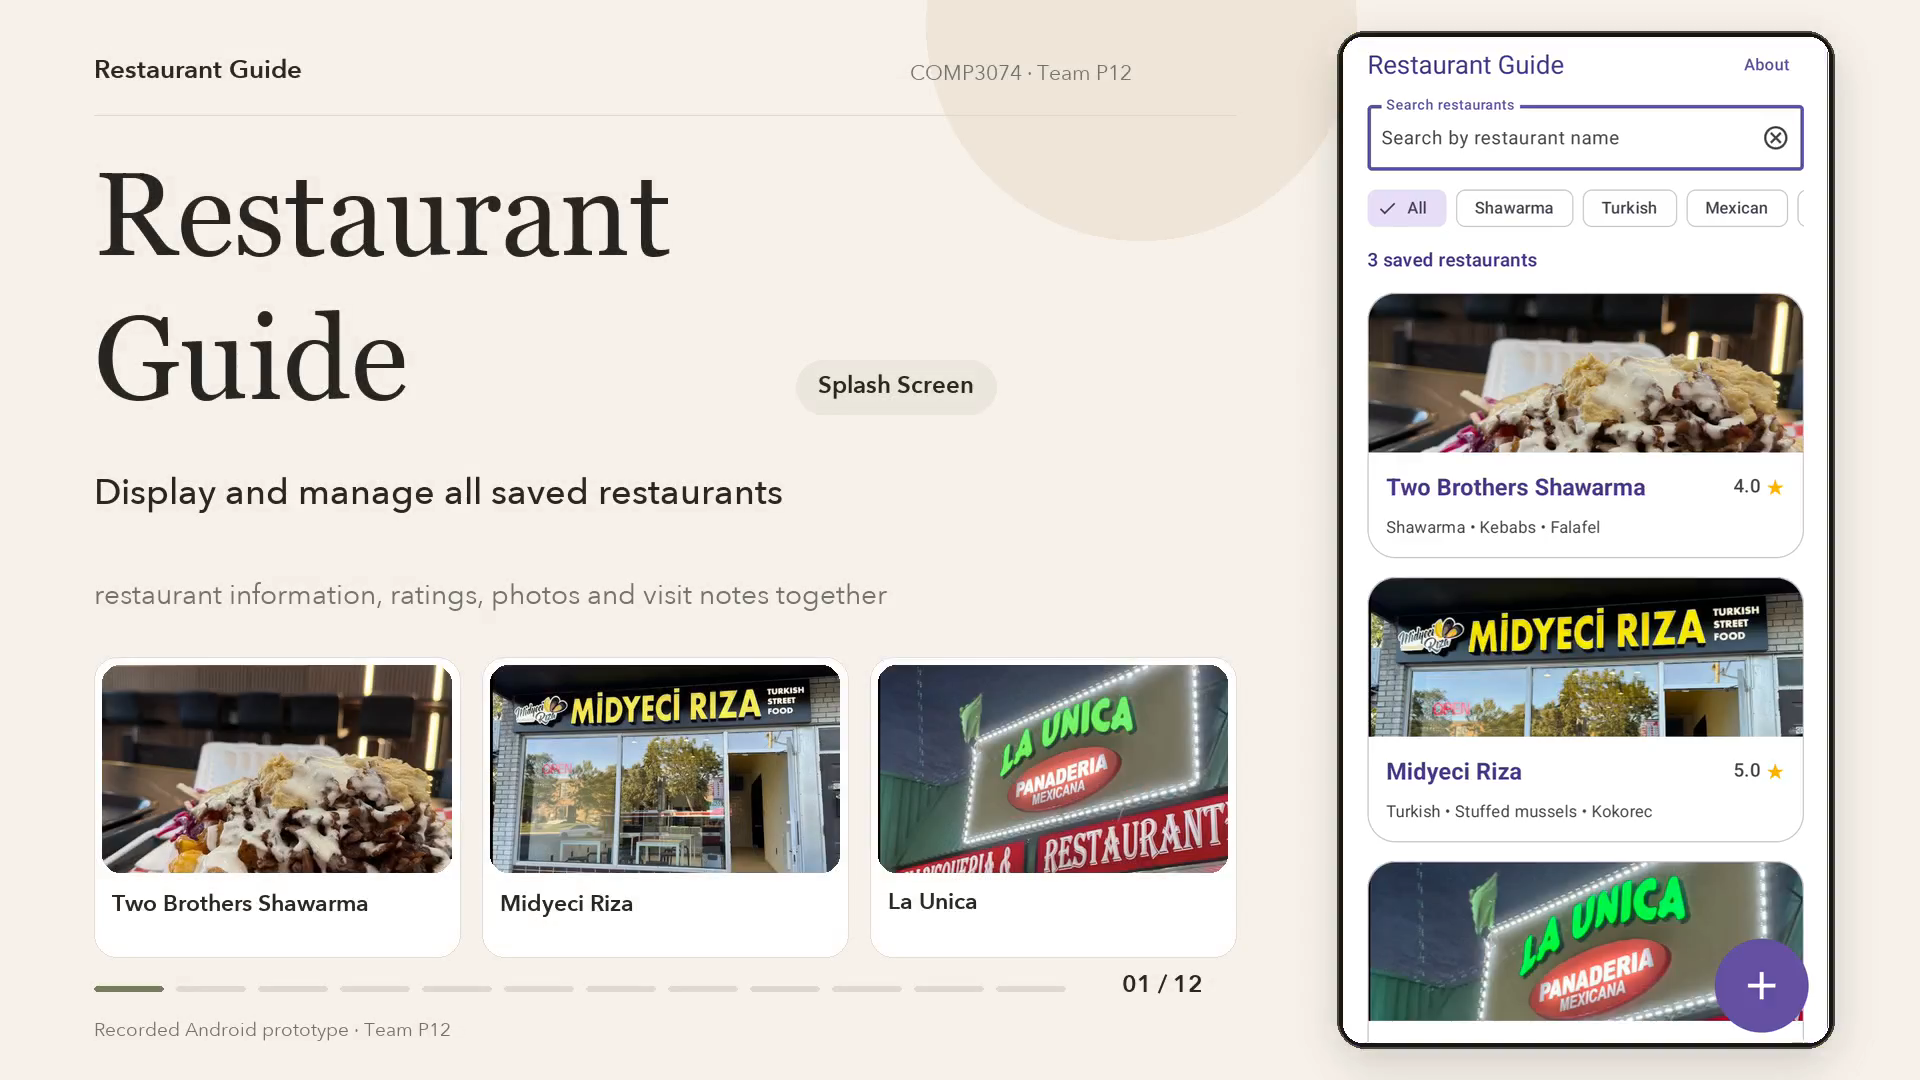
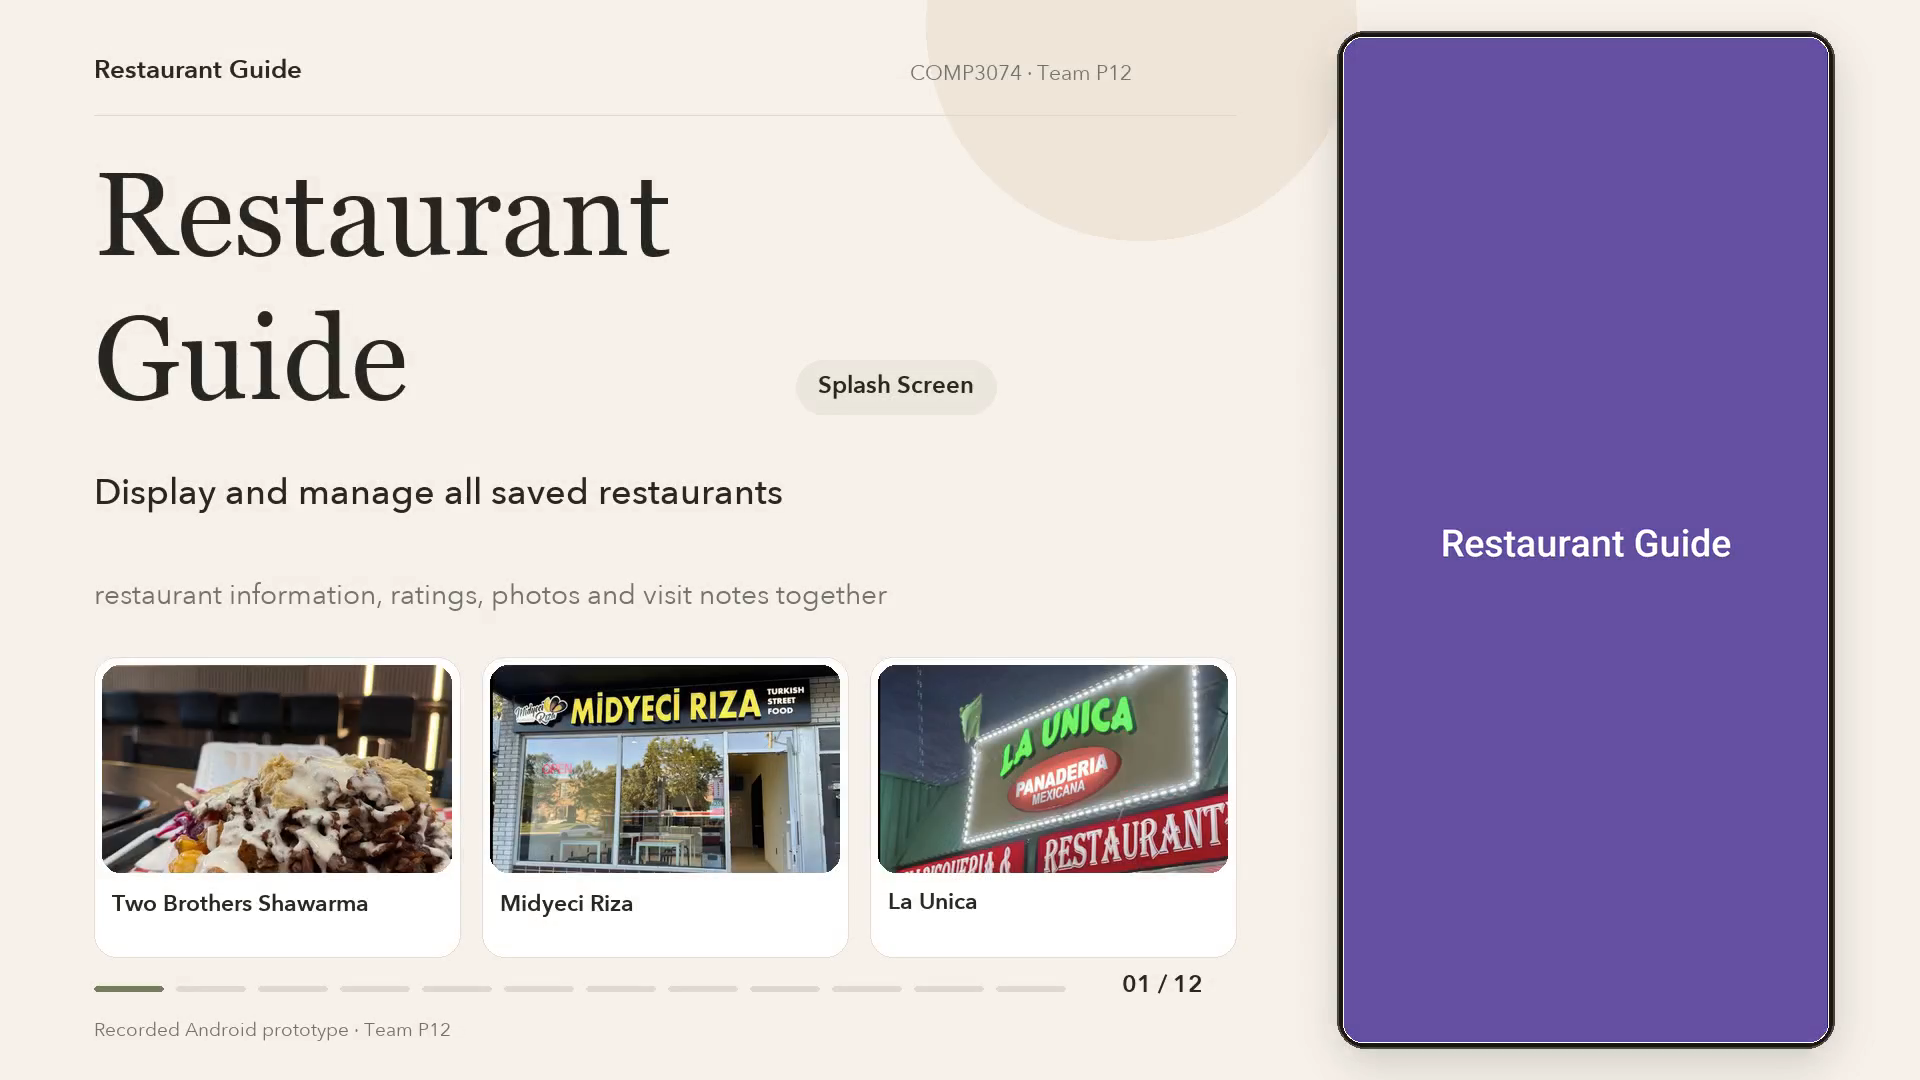
Align demo narration cues and refresh prototype footage
Refresh native Rating/Edit/Delete/About clips, hold the authentic Splash frame and align the separate recording script to final video actions. Retain the silent 4:58 presentation. Full decode, sampled visual review and file-copy checks passed.

Changed region(s): [[0.6875, 0.0306, 0.9688, 0.9778]]

diff --git a/docs/demo/transcript-timed.md b/docs/demo/transcript-timed.md
@@ -1,52 +1,189 @@
 # Restaurant Guide — Timed presentation transcript
 
-Matches the current 4:58 presentation. Times are the exact video chapter ranges; each paragraph is the existing script for that section. The video remains silent.
+Current video: **04:58.200**. retimed to final encode. The video remains silent, without captions or voiceover.
+
+Record one take per section. Directions and pause cues are not spoken; let each observed action finish. Times are suggested recording windows, not measured speech alignment.
+
+Illustrative 130–150 words per minute, not a measurement of the presenter.
+
+**Read only the quoted paragraphs.** The italic cues are directions for pacing; do not read them aloud. Rehearse to your own speaking speed.
 
 ## 00:00.000–00:15.033 | Splash Screen
 
-Restaurant Guide keeps restaurant information, ratings, photos and visit notes together, helping you remember what you ate and whether you would order it again. The purple Splash Screen introduces the application.
+*00:00.000–00:04.600 — Authentic Splash held on screen; start with the Splash sentence.*
+
+> The Splash Screen introduces Restaurant Guide.
+
+*00:04.800–00:14.700 — Allow the automatic transition, then explain the application purpose.*
+
+> Restaurant information, ratings, photos and visit notes stay together, so you remember what you ate and whether you’d order it again.
 
 ## 00:15.033–00:27.500 | Restaurant List
 
-The Restaurant List uses scrollable cards with a photo, name and rating. Rounded corners, soft borders and purple headings make the saved restaurants easy to scan.
+*00:15.333–00:27.133 — Read while the three restaurant cards scroll into view.*
+
+> Restaurant List shows scrollable cards with a photo, name and rating. Rounded corners and soft borders keep the saved restaurants easy to scan.
 
 ## 00:27.500–00:57.067 | Restaurant List — Search restaurants
 
-Search restaurants updates results as you type. Select multiple tags, or All to reset them. No restaurants found provides a way to clear the search and filters.
+*00:27.700–00:32.600 — Watch the matching names change as search text is entered.*
+
+> Search restaurants updates the matching names as you type.
+
+*00:33.300–00:37.600 — Wait for Shawarma and Turkish to appear selected.*
+
+> Selected tags match any selected category.
+
+*00:38.900–00:45.800 — Let the selected Details screen open and Back return to the filtered List.*
+
+> Open a card, then Back preserves the search and selected filters.
+
+*00:46.100–00:50.600 — Wait for All; this action clears tags, not the name query.*
+
+> All resets tags while keeping the name query.
+
+*00:51.500–00:56.800 — Read over No restaurants found and its recovery action.*
+
+> No restaurants found offers Clear search and filters to recover.
 
 ## 00:57.067–01:11.533 | Restaurant Details
 
-Restaurant Details shows the selected cover, rating, description, read-only tags, photos and contact information. Back returns to the list while preserving search and selected filters.
+*00:57.667–01:11.067 — Wait for the selected Details screen; allow its contact/map area to scroll into view.*
+
+> Restaurant Details shows the selected cover, rating, description, read-only tags, photos and contact information. The compact layout keeps the restaurant’s information together.
 
 ## 01:11.533–01:37.267 | My photos
 
-My photos opens a larger gallery with captions, swiping, arrows and thumbnails. Zoom allows closer inspection. Each caption describes one photo; visit notes describe the restaurant visit.
+*01:11.933–01:16.033 — Allow the album thumbnail to open the gallery.*
+
+> My photos opens a larger gallery with captions.
+
+*01:16.833–01:21.033 — Read while the gallery is at its initial fit scale.*
+
+> At fit, swipe or choose arrows and thumbnails.
+
+*01:21.933–01:25.733 — Wait for 200 percent; a finger drag pans an enlarged image.*
+
+> Zoom allows closer inspection; dragging now pans.
+
+*01:27.433–01:31.333 — Wait for the percentage reset, then the next photo.*
+
+> Reset the zoom, then choose the next photo.
+
+*01:32.033–01:36.833 — Allow the next photo and Close; keep captions separate from restaurant notes.*
+
+> Captions describe one photo; visit notes describe the restaurant visit.
 
 ## 01:37.267–01:54.233 | Notes
 
-Edit visit notes opens a draft for the selected restaurant. Cancel discards it, and Save applies it. The rounded lavender Notes panel keeps the saved note readable.
+*01:37.667–01:42.867 — Watch Edit visit notes open the first draft.*
+
+> Edit visit notes opens a draft for the selected restaurant.
+
+*01:45.067–01:47.767 — Wait for Cancel and the unchanged Notes panel.*
+
+> Cancel discards the first draft.
+
+*01:50.767–01:53.867 — Watch the second note Save; allow the saved Notes panel to appear.*
+
+> Save applies the second visit note.
 
 ## 01:54.233–02:09.200 | Full-Screen Map
 
-View full map shows the selected static Map preview and saved address. Back returns to Details; Get directions prepares an external destination URL. Live location remains future work.
+*01:54.433–02:02.433 — Read while the static map and saved address are visible; allow Back.*
+
+> View full map shows the selected static preview and saved address. Back returns to Details.
+
+*02:02.933–02:09.033 — Describe capability and boundary; do not claim external navigation is shown.*
+
+> Get directions prepares a destination URL. Live location remains future work.
 
 ## 02:09.200–02:31.800 | Share by email
 
-Share by email prepares name, address, phone numbers, rating, tags and description. Without an email app, Email app unavailable shows a copyable fallback containing the restaurant details.
+*02:09.600–02:17.600 — Allow Share by email to open the selected-record fallback.*
+
+> Share by email prepares the restaurant name, address, phone numbers, rating, tags and description.
+
+*02:19.000–02:27.000 — Wait for Email app unavailable; allow its copyable details to scroll.*
+
+> Email app unavailable provides a copyable fallback. This demo does not send an email.
 
 ## 02:31.800–03:06.500 | Add Restaurant
 
-Add restaurant reuses rounded fields and clear labels. Saving without a name displays Restaurant name required. After Got it, enter the name and other details.
+*02:32.200–02:38.200 — Watch Add restaurant open; leave room for the full form.*
+
+> Add restaurant opens the full form with rounded fields and clear labels.
+
+*02:40.000–02:45.600 — Wait for the blank-name Save and Restaurant name required.*
+
+> Save without a name shows Restaurant name required.
+
+*02:46.400–02:55.800 — Allow Got it, focus and complete Demo Cafe typing.*
+
+> Got it returns to the form. Enter Demo Cafe in the required Restaurant name field.
+
+*02:59.100–03:05.300 — Read as the Description is entered; no address, phone or photo is added in this clip.*
+
+> Next, enter Coffee and sandwiches in Description.
 
 ## 03:06.500–03:44.633 | Add Restaurant — Your rating
 
-Slide across enlarged stars in half-star steps. Rating Cancel discards the selection; rating Save updates the draft. Add tag creates a custom tag before the full form is saved.
+*03:06.800–03:11.200 — Watch Your rating open, then pause for the finger slide.*
+
+> Your rating opens enlarged stars for half-star selection.
+
+*03:11.300–03:17.200 — Wait for the first 4.5 selection and Cancel.*
+
+> Slide to 4.5, then Cancel discards that rating draft.
+
+*03:17.900–03:28.500 — Allow reopening, the second slide and the rating dialog’s Save; pause for the applied form rating.*
+
+> Reopen Your rating. Save applies 4.5 to the form draft.
+
+*03:28.900–03:36.700 — Watch Add tag create Cafe; pause for the Cafe chip while the restaurant is still a draft.*
+
+> Add tag adds Cafe to this draft.
+
+*03:37.000–03:44.100 — Allow the full form Save, then pause for the fourth saved restaurant and its Details.*
+
+> The form’s Save creates the session record.
 
 ## 03:44.633–04:40.433 | Edit Restaurant
 
-Edit pre-fills the saved record. Back discards changes; Save updates it. Delete asks for confirmation: Cancel keeps the record, while Delete removes it from the current session.
+*03:45.033–03:52.233 — Watch Edit pre-fill the saved record, then change its name.*
+
+> Edit restaurant pre-fills the saved record. Change its name in the draft.
+
+*03:54.633–03:58.533 — Allow Back, then observe unchanged Demo Cafe.*
+
+> Back discards that draft; Demo Cafe is unchanged.
+
+*03:58.833–04:09.833 — Allow a second edit and the form Save; pause for Demo Cafe Updated in Details.*
+
+> Reopen Edit, change the name to Demo Cafe Updated, and Save the record.
+
+*04:11.133–04:17.933 — Allow Delete restaurant and Cancel; pause for the selected record remaining in Details.*
+
+> Delete restaurant asks for confirmation. Cancel keeps the selected record.
+
+*04:18.133–04:23.133 — Allow the second Delete confirmation, then pause for the updated saved count.*
+
+> Confirm Delete removes Demo Cafe Updated from the current session.
+
+*04:23.633–04:36.333 — Pause for three separate confirmed deletions, each selecting its own record.*
+
+> Then delete Two Brothers Shawarma, Midyeci Riza and La Unica separately.
+
+*04:36.633–04:40.333 — Read over the actual empty state; one Delete did not clear the whole list.*
+
+> No restaurants saved yet offers Add restaurant.
 
 ## 04:40.433–04:58.200 | About
 
-About identifies Restaurant Guide, COMP3074, Team P12 and all four team members. This interactive UI prototype uses session data. Permanent storage, live maps and location permissions remain future work.
+*04:40.833–04:50.833 — Wait for About and keep all four approved names readable.*
 
+> About shows Restaurant Guide and Team P12: Kalid Ali, Phillip Onofua, Mohamed Amine OUATAR and Joshua Zaakir.
+
+*04:51.133–04:57.933 — Close with the UI prototype’s functional boundary.*
+
+> Records use session data; permanent storage, live maps and location permissions remain future work.

diff --git a/docs/demo/README.md b/docs/demo/README.md
@@ -1,22 +1,15 @@
 # Restaurant Guide UI prototype demonstration
 
-The UI prototype brief requires a GitHub repository link and a video explaining the design and application purpose. This repository is public as requested. The official team remains **Kalid Ali, Phillip Onofua, Mohamed Amine OUATAR and Joshua Zaakir**. Phillip is building this UI prototype alone; the approved broader team roles are retained in [Development Plan](../development-plan.md).
+[Silent demo video — 4:58](Restaurant-Guide-UI-Prototype.mp4) · [Public repository](https://github.com/EdoiseO/COMP3074-RestaurantGuide)
 
-[Public repository](https://github.com/EdoiseO/COMP3074-RestaurantGuide) · [Final UI review](../prototype-final-verification.md)
+The video explains the application purpose and demonstrates Splash, List/search/tags, Details, photos/zoom, Notes, the static map, email fallback, Add validation, half-star ratings, Edit, Delete and About. It uses cream/charcoal layouts with muted olive accents; native app footage retains its purple styling. There is no voiceover or on-screen transcript.
 
-The [demo video (4:58)](Restaurant-Guide-UI-Prototype.mp4) uses cream backgrounds, charcoal/cream text and muted olive accents, with Georgia headings and Avenir Next body text. Restaurant photo cards, larger native app previews, varied layouts and feature icons support the design and application-purpose explanations. The actual Android footage retains the app's purple UI and existing labels. The revised export remains silent, without voiceover or on-screen transcript captions. Full decoding and stream inspection passed; all twelve chapter samples and key Gallery/rating/About states passed independent visual review. This is sampled review, not a full playback watch.
+Use the [timed recording script](transcript-timed.md) ([plain text](transcript-timed.txt)) to record audio separately. Read the quoted text; pause/action instructions are not spoken. Suggested speaking windows follow the video timer and need rehearsal at your own pace.
 
-The refreshed export is 1920×1080 H.264 at 30 fps and **298.200 seconds (4:58)**. All twelve chapter titles and their order are retained; marker timestamps are rebuilt from the original scene frame counts.
+The 1920×1080 H.264 video runs 4:58.200 at 30fps with twelve chapters. Native motion plays at 1.5×; the four-second authentic Splash hold and final-frame holds are presentation edits. Refreshed footage shows the compact My photos layout and distinguishes rating Save from form Save and separate deletions before the empty list.
 
-- [Transcript matched to the current presentation timer](transcript-timed.md) ([plain text](transcript-timed.txt)) — twelve sections with exact chapter start/end times; existing script wording retained.
-- [Separate transcript](narration.txt) — retained as requested; not displayed or spoken in the video.
-- [Historical transcript timing file](narration.srt) — retained separately from the prior export; not embedded or claimed to synchronize exactly with the refreshed video.
 - [Presentation preview](presentation-preview.png)
-- [About preview](about.png) and [200% gallery preview](gallery-200.png)
-- [Verification receipt](verification.json) — build/test results, video hash, media details and cleanup.
+- [About preview](about.png) and [gallery preview](gallery-200.png)
+- [Original narration](narration.txt) and [historical SRT](narration.srt) — retained references; use the current timed script for this video.
 
-The walkthrough explains why the app brings restaurant information, ratings, photos and visit notes together, then demonstrates Splash, List, live search/tags, Details, My photos/zoom, Notes, the selected Map, email fallback, Add validation, half-star rating/custom tag, Edit/Delete, the empty list and About. On-screen app labels and all four names retain the project wording.
-
-Footage comes from the actual production MainActivity in isolated API37.1 emulator guests, edited into chapters with system bars cropped and native footage played at 1.5× speed. The presentation refresh changes the video canvas, typography and layout while using exact project-purpose phrases and retained chapter excerpts alongside the native app footage and separate transcript file. Two short system-notification intervals were removed by temporal cuts, preserving clean complete-card, count and saved-record states. The other ten chapters retain their full media. Raw clips, native UI readbacks, build/device logs and historical media receipts remain in the dated course output directory. This media-only revision does not change the tested app source or its earlier 32-unit/33-device checkpoint; no emulator was started for it.
-
-Records use session data and saved UI state. The Map is a selected static preview and Get directions prepares an external destination URL. The email chapter uses an isolated guest with Gmail disabled to show the copyable no-handler fallback. Successful composition/navigation in external apps, durable storage/photo access, live Maps and current-location permissions remain later functional work. No email is sent, and this preparation does not submit the assessment to the school portal.
+Records use session data. Maps are static previews and the email chapter shows the no-handler fallback. Durable storage, live location and successful external handoffs remain future work. The official team is Kalid Ali, Phillip Onofua, Mohamed Amine OUATAR and Joshua Zaakir; Phillip is building the UI prototype alone.
